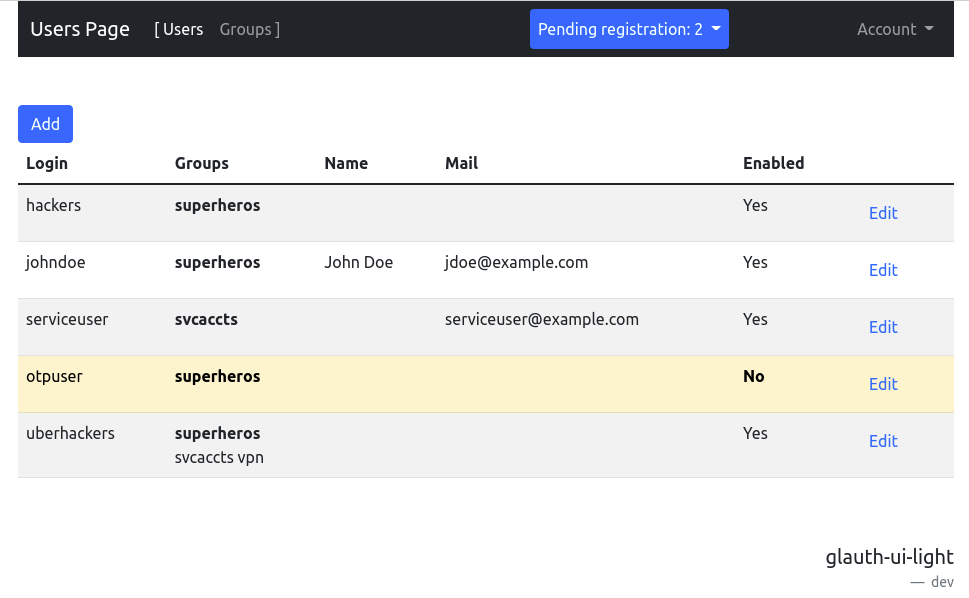
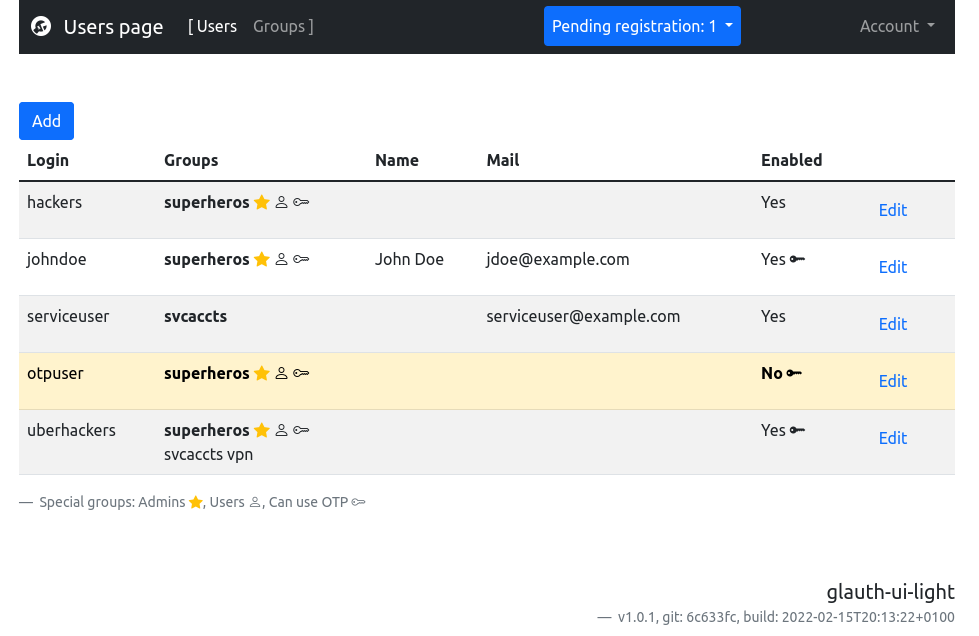
prepare 1.2.0 release

diff --git a/README.md b/README.md
@@ -29,6 +29,8 @@ Current glauth experimental feature on ``customattributes`` is lost due to the n
 - Authentication with current glauth users if ``allowreadssha256`` is set
 - Admin right is defined for members of group defined in ``gidadmin``
 - Users in group ``gidcanchgpass`` are common users and can change their passwords 
+- Users in group ``giduseotp`` can define and use an One Time Password application like Google Authenticator, andOTP, ...
+
 
 
 ## Missing glauth V2 features
@@ -42,6 +44,7 @@ Current glauth experimental feature on ``customattributes`` is lost due to the n
 - daily log rotates
 - i18n support
 - responsive UI
+- TOTP management
 - delayed after 4 failed login
 - rate requests limiter against brute force ttempts
 - CSRF
@@ -92,6 +95,7 @@ appdesc = "Manage users and groups for glauth ldap server"
   start = 5000           # start with this uid number 
   gidadmin = 5501        # members of this group are admins
   gidcanchgpass = 5500   # members of this group can change their password
+  giduseotp = 5501       # members of this group use OTP
 
 [cfggroups]
   start = 5500   # start with this gid number 
@@ -111,16 +115,17 @@ $ firefox http://localhost:8080/
 Download last deb file from https://github.com/yvesago/glauth-ui-light/releases
 
 ```
-$ sudo dpkg -i glauth-ui-light_1.0.0-0~static0_amd64.deb
+$ sudo dpkg -i glauth-ui-light_1.2.0-0~static0_amd64.deb
 
 $ systemctl status glauth-ui-light
 ● glauth-ui-light.service - Glauth web
-   Loaded: loaded (/lib/systemd/system/glauth-ui-light.service; enabled; vendor preset: enabled)
-   Active: active (running) since Tue 2022-02-08 18:07:00 CET; 1s ago
- Main PID: 8110 (glauth-ui-light)
-    Tasks: 5 (limit: 4915)
-   CGroup: /system.slice/glauth-ui-light.service
-           └─8110 /usr/bin/glauth-ui-light -c /etc/glauth-ui/glauth-ui.cfg
+     Loaded: loaded (/lib/systemd/system/glauth-ui-light.service; enabled; vendor preset: enabled)
+     Active: active (running) since Tue 2022-02-15 18:14:54 CET; 2h 20min ago
+   Main PID: 119451 (glauth-ui-light)
+      Tasks: 7 (limit: 4475)
+     Memory: 5.6M
+     CGroup: /system.slice/glauth-ui-light.service
+             └─119451 /usr/bin/glauth-ui-light -c /etc/glauth-ui/glauth-ui.cfg
 
 # custom config
 $ vi /etc/glauth-ui/glauth-ui.cfg
@@ -141,8 +146,14 @@ $ tail -f /var/log/glauth-ui/app.20220208
 **Change password**
 ![Change password](img/3-changepass.png)
 
+**TOTP**
+![TOTP](img/3-otp.png)
+
 **Manage users**
 ![Users page](img/4-userspage.png)
+
+**Edit user**
+![Edit user](img/4-usersedit.png)
 
 **Delete group**
 ![Delete group](img/5-delgroup.png)
@@ -150,6 +161,7 @@ $ tail -f /var/log/glauth-ui/app.20220208
 **Responsive**
 
 ![Responsive](img/6-responsive.png)
+![Responsive 2](img/6-responsive2.png)
 
 
 ## Localisation
@@ -201,12 +213,12 @@ $  go test -coverprofile=coverage.out ./...
 
 $ go tool cover -func=coverage.out
 ...
-glauth-ui-light/routes/routes.go:78:	initServer		85.4%
-glauth-ui-light/routes/routes.go:174:	SetRoutes		93.5%
-glauth-ui-light/routes/routes.go:220:	contains		100.0%
-glauth-ui-light/routes/routes.go:229:	setCacheHeaders		100.0%
-glauth-ui-light/routes/routes.go:248:	Auth			100.0%
-total:					(statements)		93.7%
+glauth-ui-light/routes/routes.go:79:	initServer		85.4%
+glauth-ui-light/routes/routes.go:182:	SetRoutes		93.8%
+glauth-ui-light/routes/routes.go:230:	contains		100.0%
+glauth-ui-light/routes/routes.go:239:	setCacheHeaders		100.0%
+glauth-ui-light/routes/routes.go:258:	Auth			100.0%
+total:					(statements)		95.2%
 
 # html browser output
 $ go tool cover -html=coverage.out
@@ -228,13 +240,13 @@ $ apt install build-essential quilt
 $ git clone https://github.com/yvesago/glauth-ui-light.git
 $ cd glauth-ui-light
 
-$ debuild -us -uc -b
+$ make deb
 
 # view content
-$ dpkg-deb -c ../glauth-ui-light_1.0.0-0~static0_amd64.deb
+$ dpkg-deb -c ../glauth-ui-light_1.2.0-0~static0_amd64.deb
 
 # install
-$ sudo dpkg -i ../glauth-ui-light_1.0.0-0~static0_amd64.deb
+$ sudo dpkg -i ../glauth-ui-light_1.2.0-0~static0_amd64.deb
 ```
 
 ### Code structure:
@@ -302,6 +314,11 @@ https://vincent.bernat.ch/en/blog/2019-pragmatic-debian-packaging
 
 ## Changelog
 
+v1.2.0:
+  * Add OTP management
+  * tweak UI
+
+
 v1.0.1:
   * fix keep unchanged old sha256 password
   * fix UI mistakes
@@ -313,7 +330,7 @@ v1.0.0:
 
 ## TODO
 
-* Add otp
+* Add app passwords to bypass ldap OTP
 
 
 ## Licence
